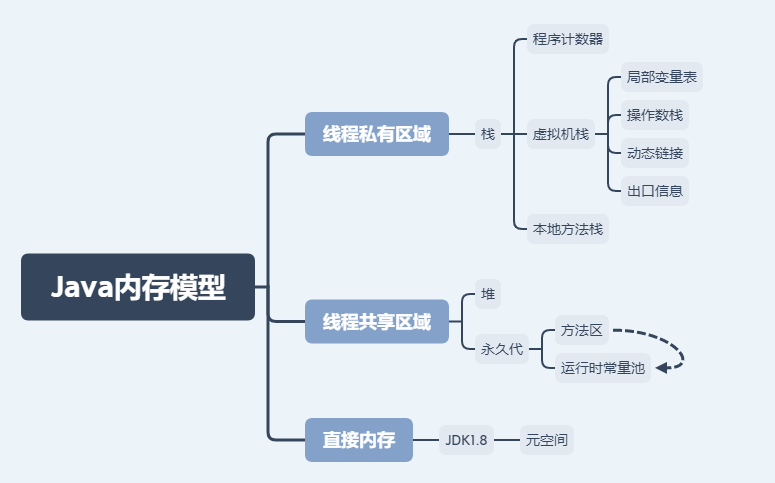
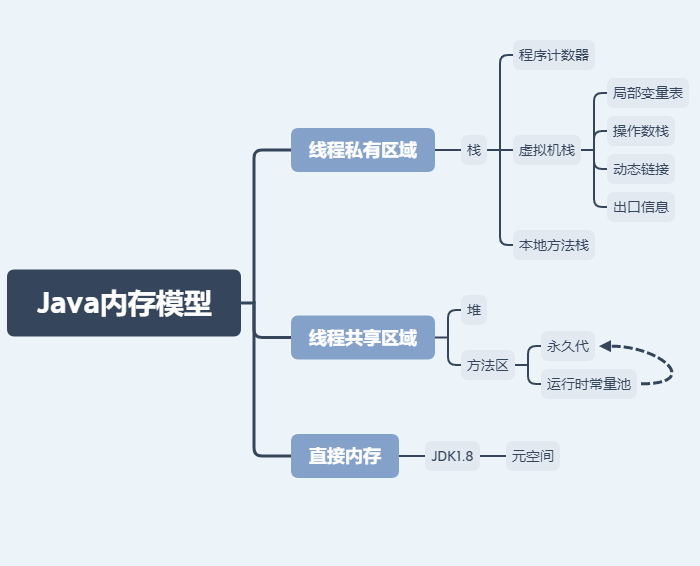
添加Java内存模型.md

Changed region(s): [[0.0, 0.0621, 0.99, 0.9627], [0.93, 0.6211, 0.96, 0.6832], [0.63, 0.528, 0.69, 0.559]]

diff --git a/docs/JVM/Java内存模型.md b/docs/JVM/Java内存模型.md
@@ -1,0 +1,50 @@
+# Java内存模型
+
+## 思维导图
+
+![Java内存模型](../../xmind/Java内存模型.png)
+
+## 线程私有区域
+
+### 栈
+
+- 程序计数器
+  - 负责代码流程控制，如：顺序执行、循环和异常处理
+  - 多线程情况下，当前线程被切换回来时从原位置开始运行
+- 虚拟机栈
+
+  **Java方法执行的地方**
+  - 局部变量表 存放了编译期间可知的方法的各种数据类型和对象引用
+  - 操作数栈 在方法执行过程中根据字节码指令，往栈中写入数据或提取数据的地方
+  - 动态链接 指向运行时常量池中该栈帧所属方法的引用。持有这个引用是为了支持方法调用过程中的动态连接(Dynamic Linking)
+  - 出口信息 方法执行完将返回至方法当前被调用的位置，保证程序继续执行
+- 本地方法栈 本地方法执行的地方，内存结构和虚拟机栈一样
+
+## 线程共享区域
+
+### 堆
+
+对象和数组创建唯一区域
+
+### 方法区
+
+> 方法区和永久代的关系就像接口和接口实现的关系，永久代实现了方法区
+
+- 方法区 存储虚拟机加载的类信息（版本、field、方法、接口等信息）、常量、静态变量和JIT编译后生成的代码等等。
+
+- 运行时常量池 属于方法区的一部分。用于存储编译期间产生的各种字面量和符号引用
+  - JDK1.7之前运行时常量池逻辑包含字符串常量池存放在方法区, 此时hotspot虚拟机对方法区的实现为永久代
+  - JDK1.7字符串常量池被从方法区拿到了堆中,这里没有提到运行时常量池,也就是说字符串常量池被单独拿到堆,运行时常量池剩下的东西还在方法区,也就是hotspot中的永久代
+  - JDK1.8时hotspot移除了永久代用元空间(Metaspace)取而代之,这时候字符串常量池还在堆,运行时常量池还在方法区,只不过方法区的实现从永久代变成了元空间(Metaspace)
+
+## 直接内存
+
+使用本机内存，不受堆内存大小限制，受本机内存限制，能加载更多的类的元信息。
+
+JDK1.8就把方法区改用元空间，类的元信息被存储在元空间中。
+
+### JDK1.8
+
+- 元空间
+
+JDK1.8后完全放弃了永久代，改用元空间。把类的元信息存储到元空间，字符串常量池仍在堆中。
